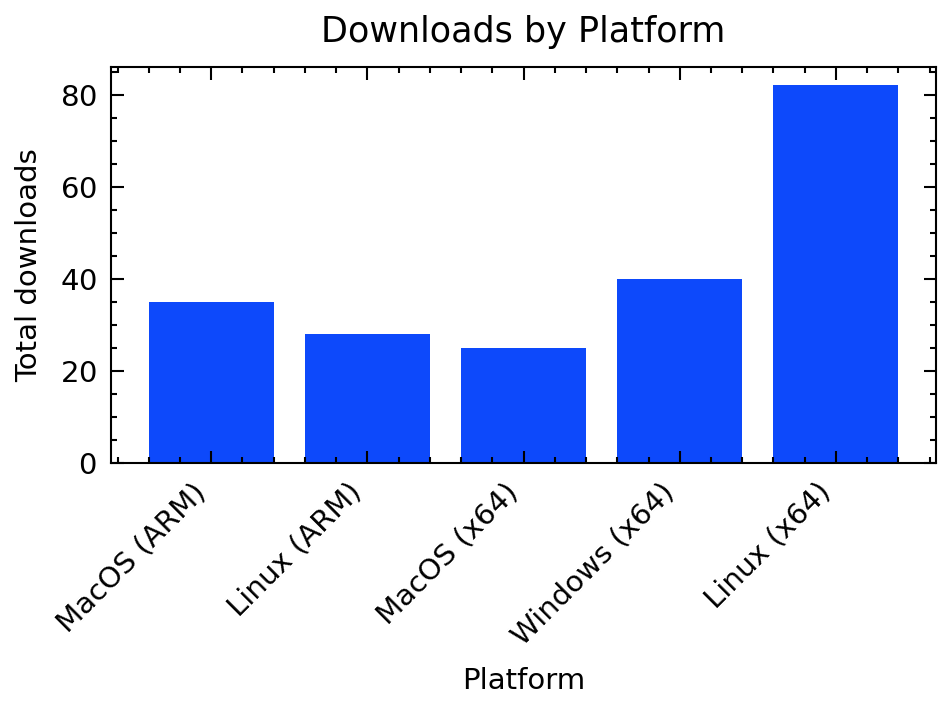
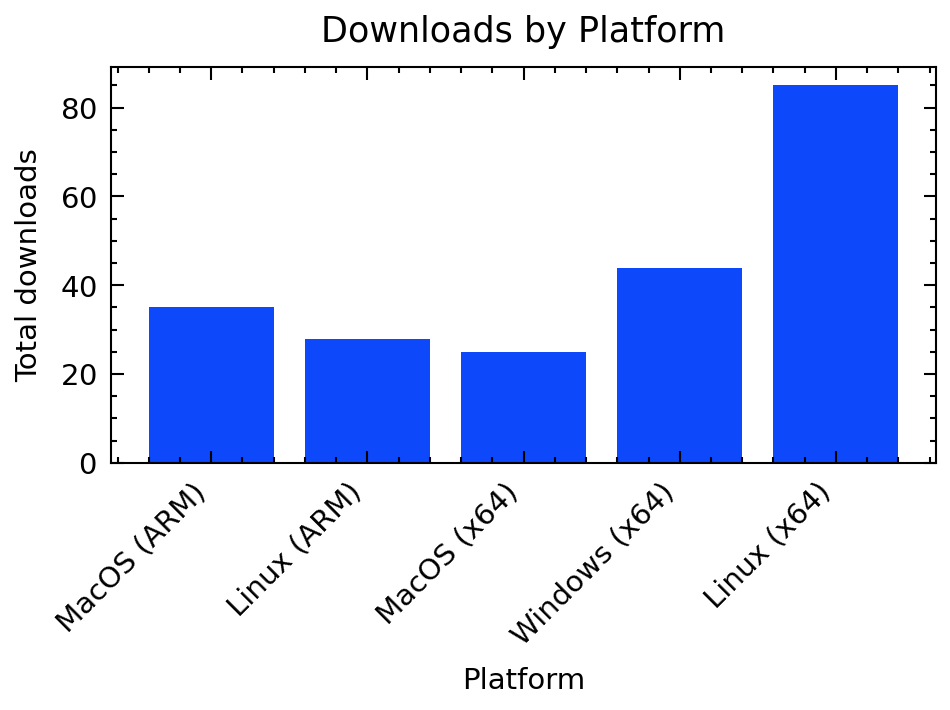
Updated Metrics data

diff --git a/README.md b/README.md
@@ -4,7 +4,7 @@
 SciWIn-Client helps users creating **Computational Workflows** in CWL. Detailed Information about SciWIn-Client can be found in the [GitHub Repository](https://github.com/fairagro/m4.4_sciwin_client). The Metrics shown below have been calculated using the GitHub API. Presentation is done via a CWL Workflow and the scripts in this repository.
 
 ## Downloads by Version
-SciWIn-Client currently has about 210 overall downloads across all versions and operating systems. The lastest version v1.0.0 currently has 20 downloads.
+SciWIn-Client currently has about 217 overall downloads across all versions and operating systems. The lastest version v1.0.0 currently has 27 downloads.
 
 
 ![downloads by version](release.png)
@@ -12,7 +12,7 @@ SciWIn-Client currently has about 210 overall downloads across all versions and 
 
 | Version | Downloads |
 |---------|-----------|
-| v1.0.0 | 20|
+| v1.0.0 | 27|
 | v0.8.0 | 34|
 | v0.7.0 | 19|
 | v0.6.1 | 14|
@@ -27,7 +27,7 @@ SciWIn-Client currently has about 210 overall downloads across all versions and 
 
 
 ## Downloads by Operating System
-SciWIn-Client is used on all major operating systems. There are 110 downloads of the Linux executable, 40 downloads of the Windows executable and 60 downloads of the Mac OS executable.
+SciWIn-Client is used on all major operating systems. There are 113 downloads of the Linux executable, 44 downloads of the Windows executable and 60 downloads of the Mac OS executable.
 
 
 ![downloads by platform](platform.png)
@@ -38,8 +38,8 @@ SciWIn-Client is used on all major operating systems. There are 110 downloads of
 | MacOS (ARM) | 35|
 | Linux (ARM) | 28|
 | MacOS (x64) | 25|
-| Windows (x64) | 40|
-| Linux (x64) | 82|
+| Windows (x64) | 44|
+| Linux (x64) | 85|
 
 
 ## Creating this Workflow
